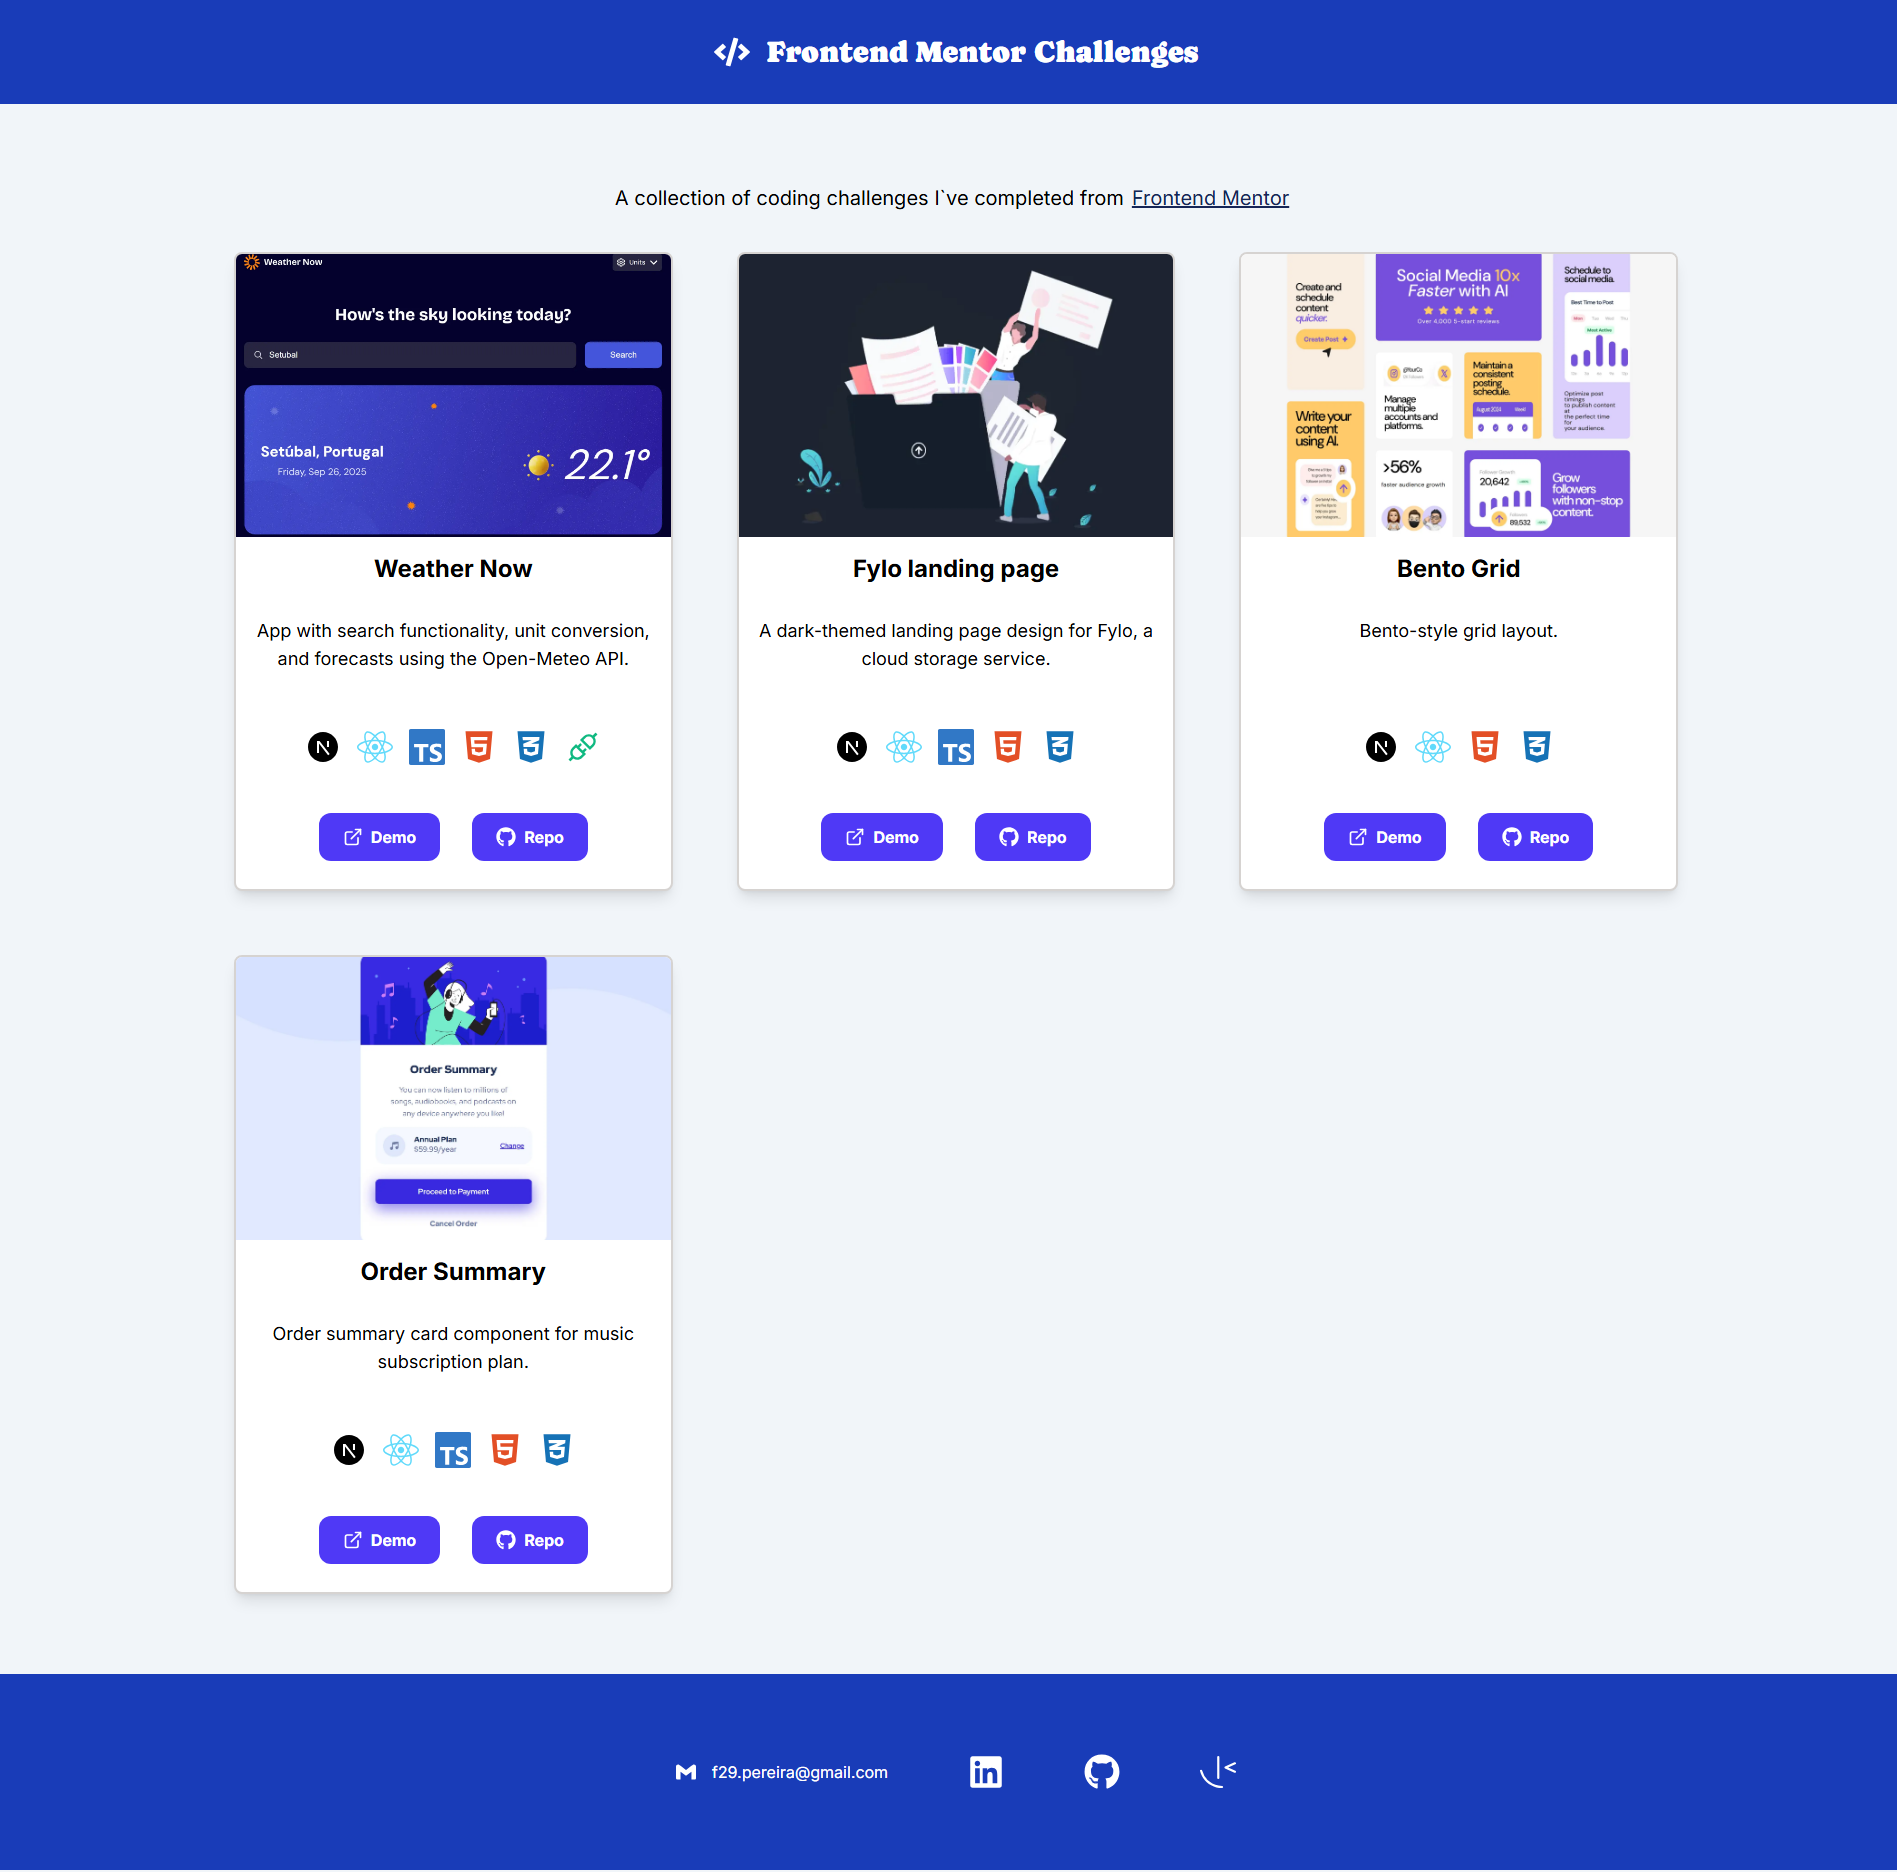
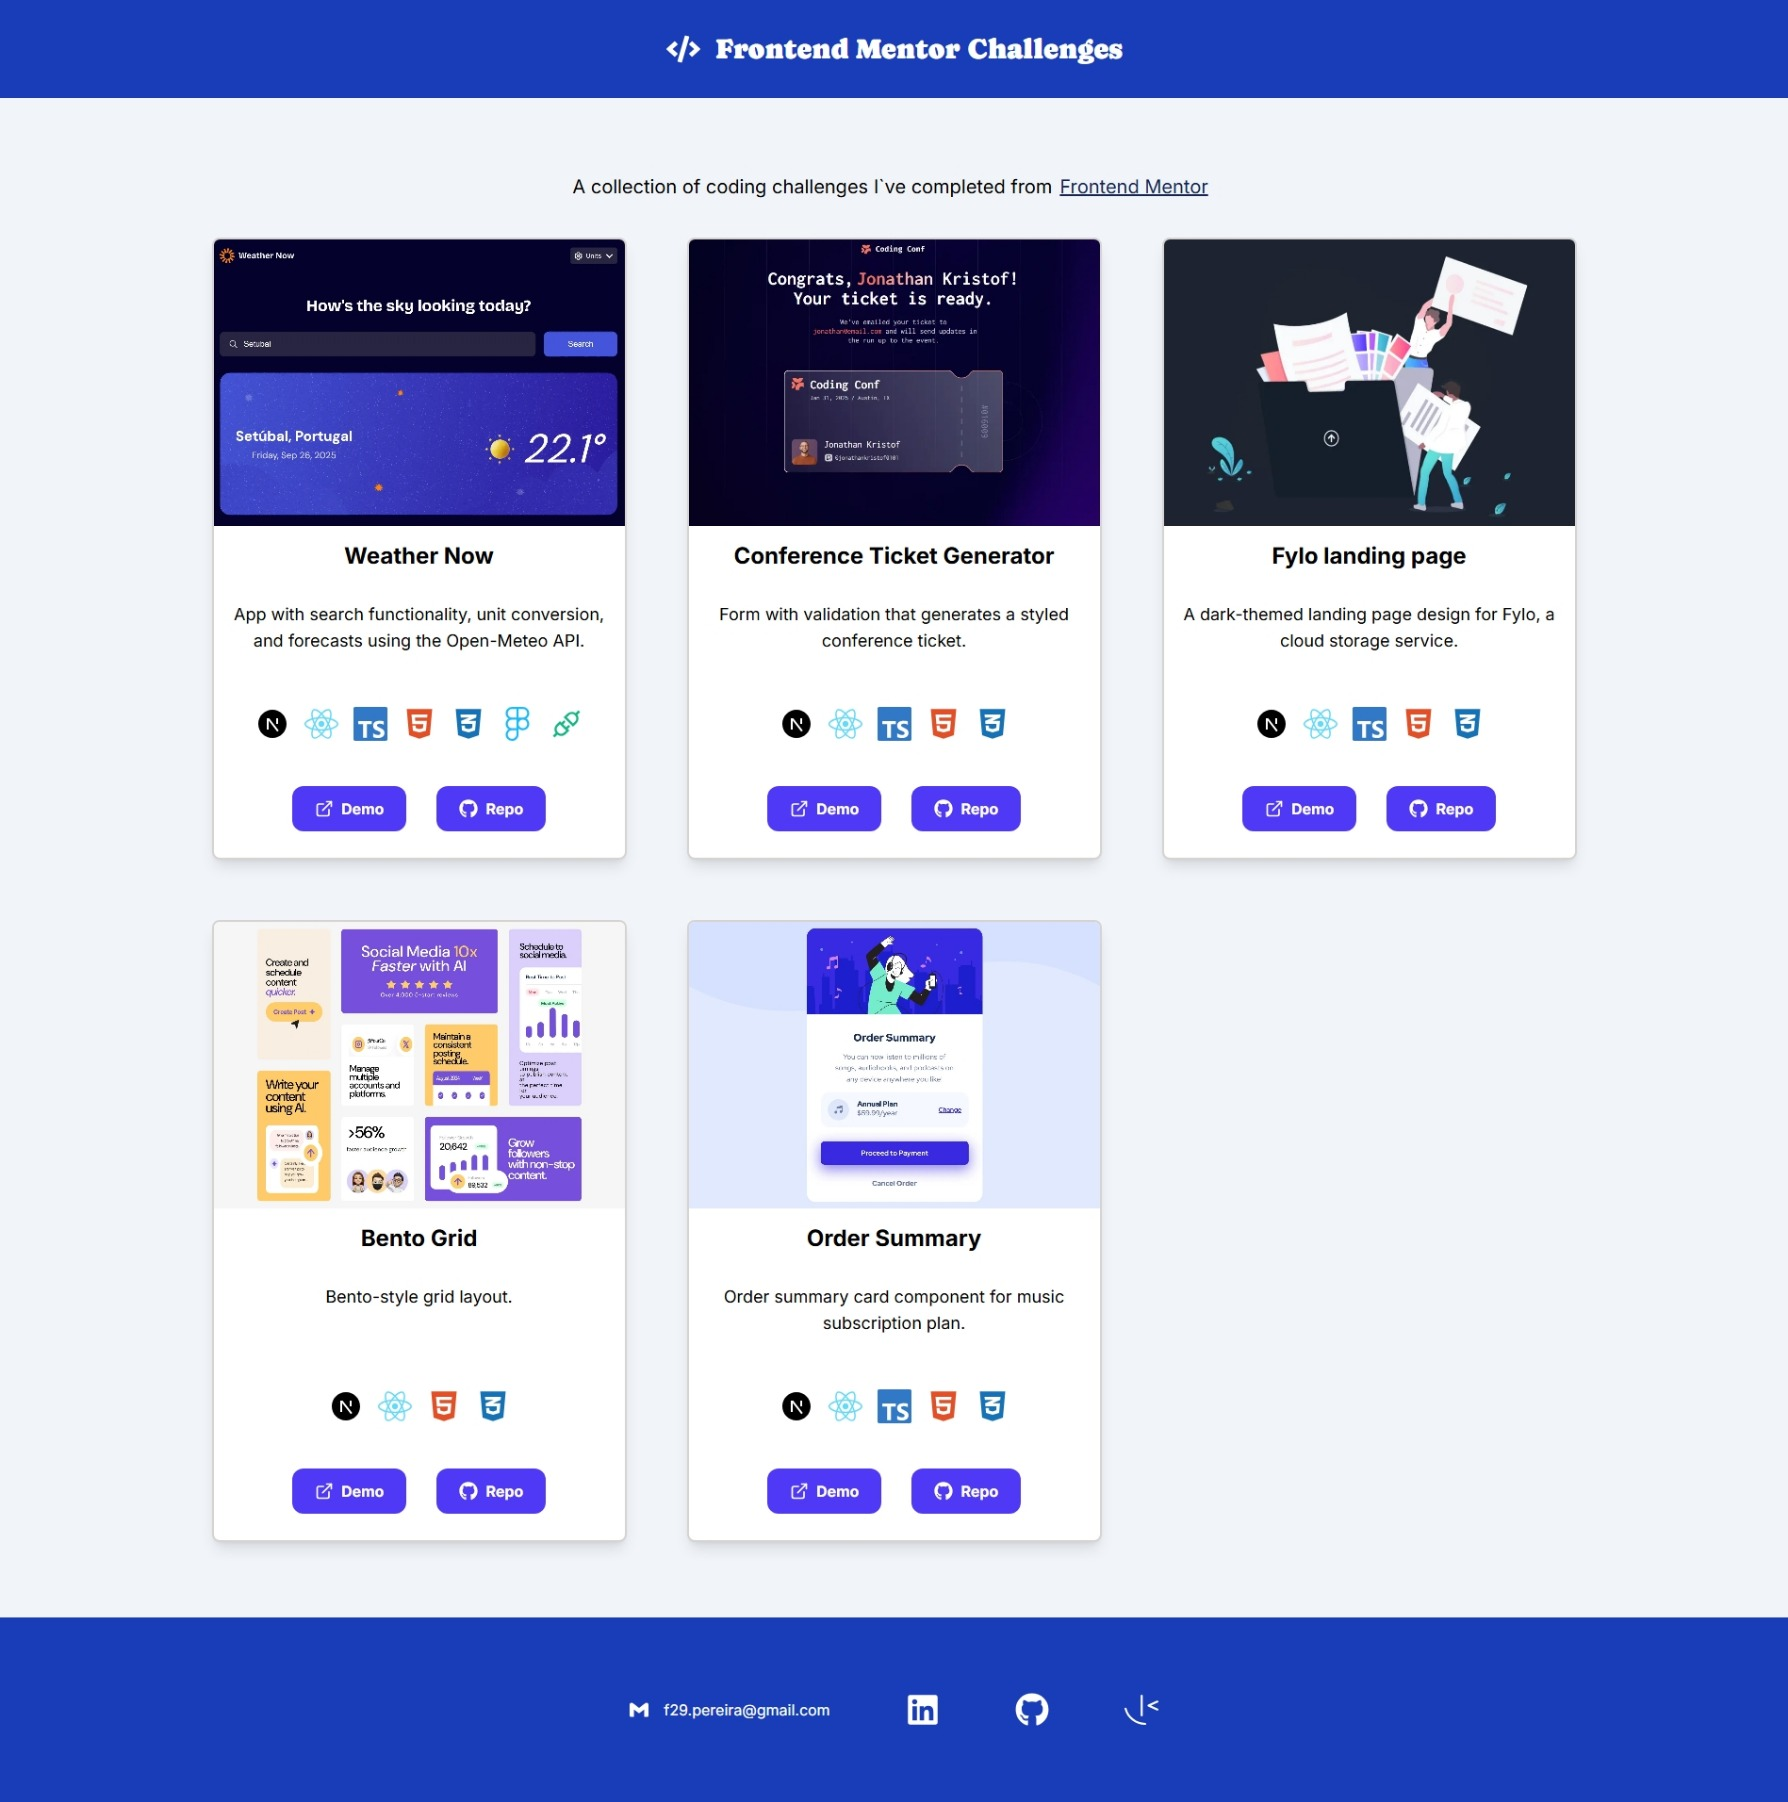
Add Conference Ticket Generator Challenge

diff --git a/src/app/data/data.ts b/src/app/data/data.ts
@@ -21,6 +21,16 @@ export const cardList: CardProps[] = [
     codeLink: "https://github.com/f29pereira/weather-app",
   },
   {
+    imageSrc: "images/conference_ticket_generator.png",
+    imageAlt: "Conference Ticket Generator Challenge",
+    cardTitle: "Conference Ticket Generator",
+    technologies: ["nextjs", "react", "typescript", "html", "css"],
+    cardDescription:
+      "Form with validation that generates a styled conference ticket.",
+    demoLink: "https://f29pereira.github.io/conference-ticket-generator/",
+    codeLink: "https://github.com/f29pereira/conference-ticket-generator",
+  },
+  {
     imageSrc: "images/fylo_landing_page.png",
     imageAlt: "Fylo Landing Page Challenge",
     cardTitle: "Fylo landing page",

diff --git a/README.md b/README.md
@@ -34,6 +34,22 @@ A responsive weather app with search functionality, unit conversion, and detaile
 
 🔗 [Live Demo](https://f29pereira.github.io/weather-app/) | 📂 [Code](https://github.com/f29pereira/weather-app)
 
+### Conference Ticket Generator
+
+A responsive web form with validation (required fields, image type and size, name, email, and GitHub username format) that generates a conference ticket upon successful submission.
+
+**Form**
+
+![conference ticket generator form](public/images/readme/conferenceTicket/form.png)
+
+**Generated Ticket**
+
+![conference ticket generator ticket](public/images/readme/conferenceTicket/ticket.png)
+
+**Technologies used:** Next.js, React, TypeScript, HTML, CSS
+
+🔗 [Live Demo](https://f29pereira.github.io/conference-ticket-generator/) | 📂 [Code](https://github.com/f29pereira/conference-ticket-generator)
+
 ### Fylo
 
 A dark-themed landing page design for Fylo, a cloud storage service.
